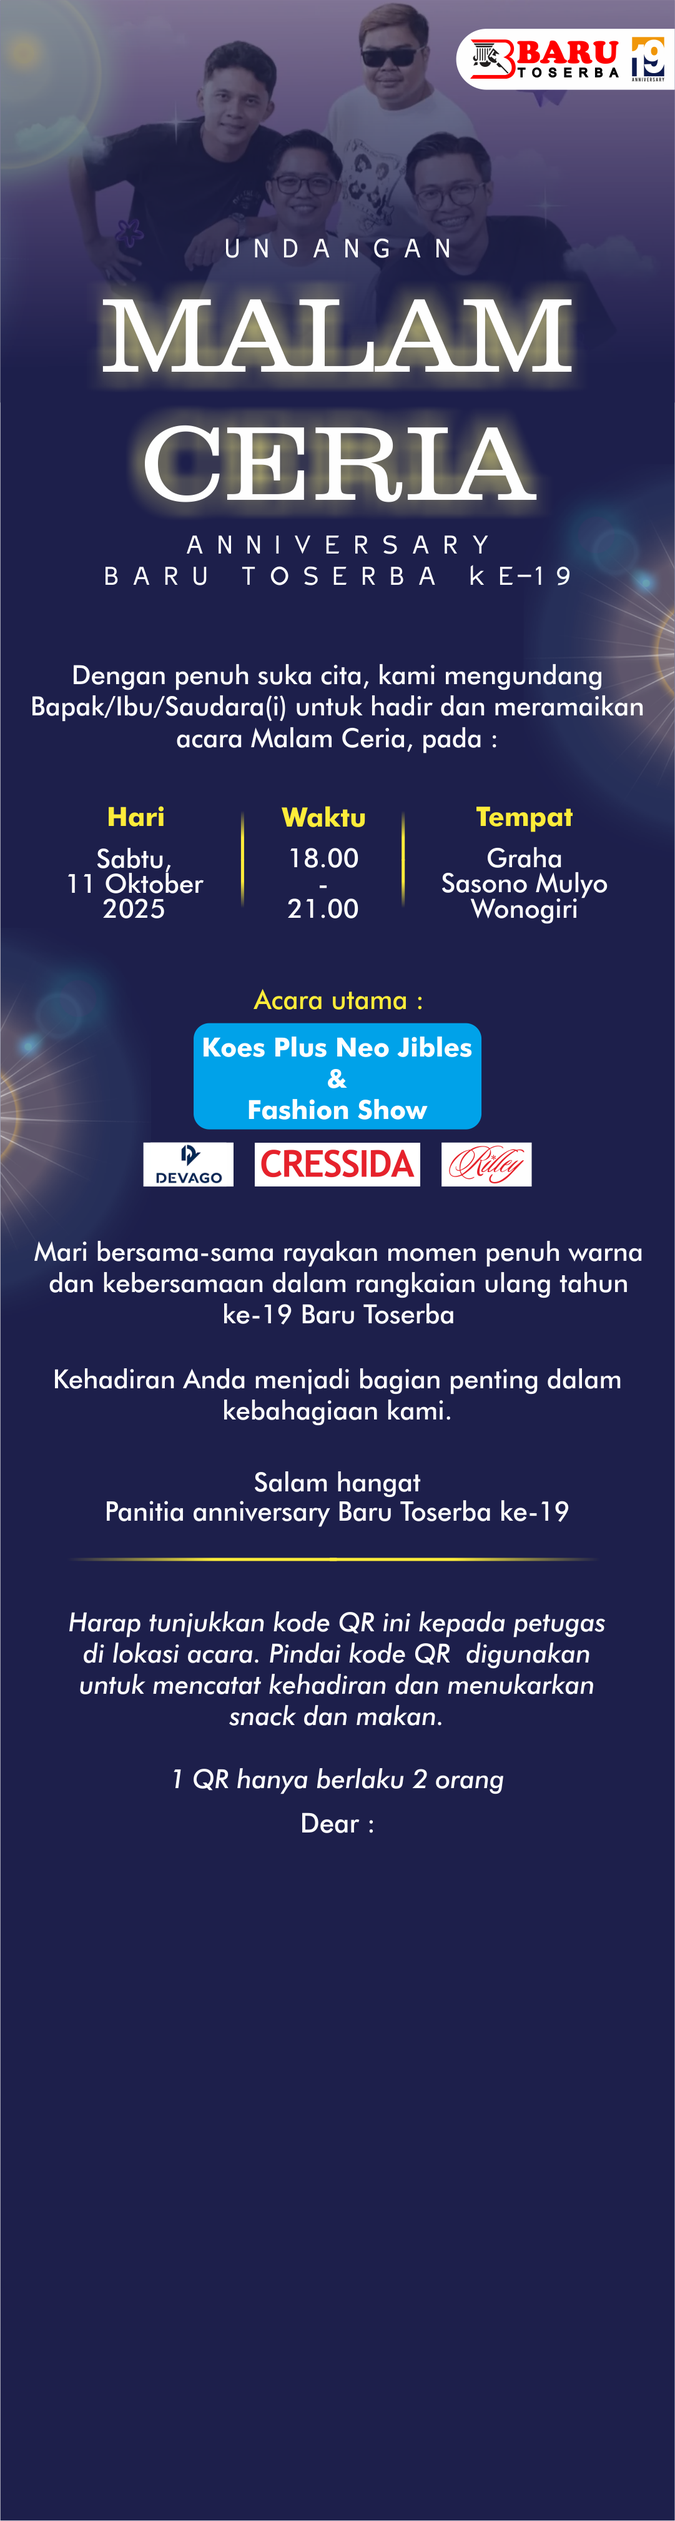
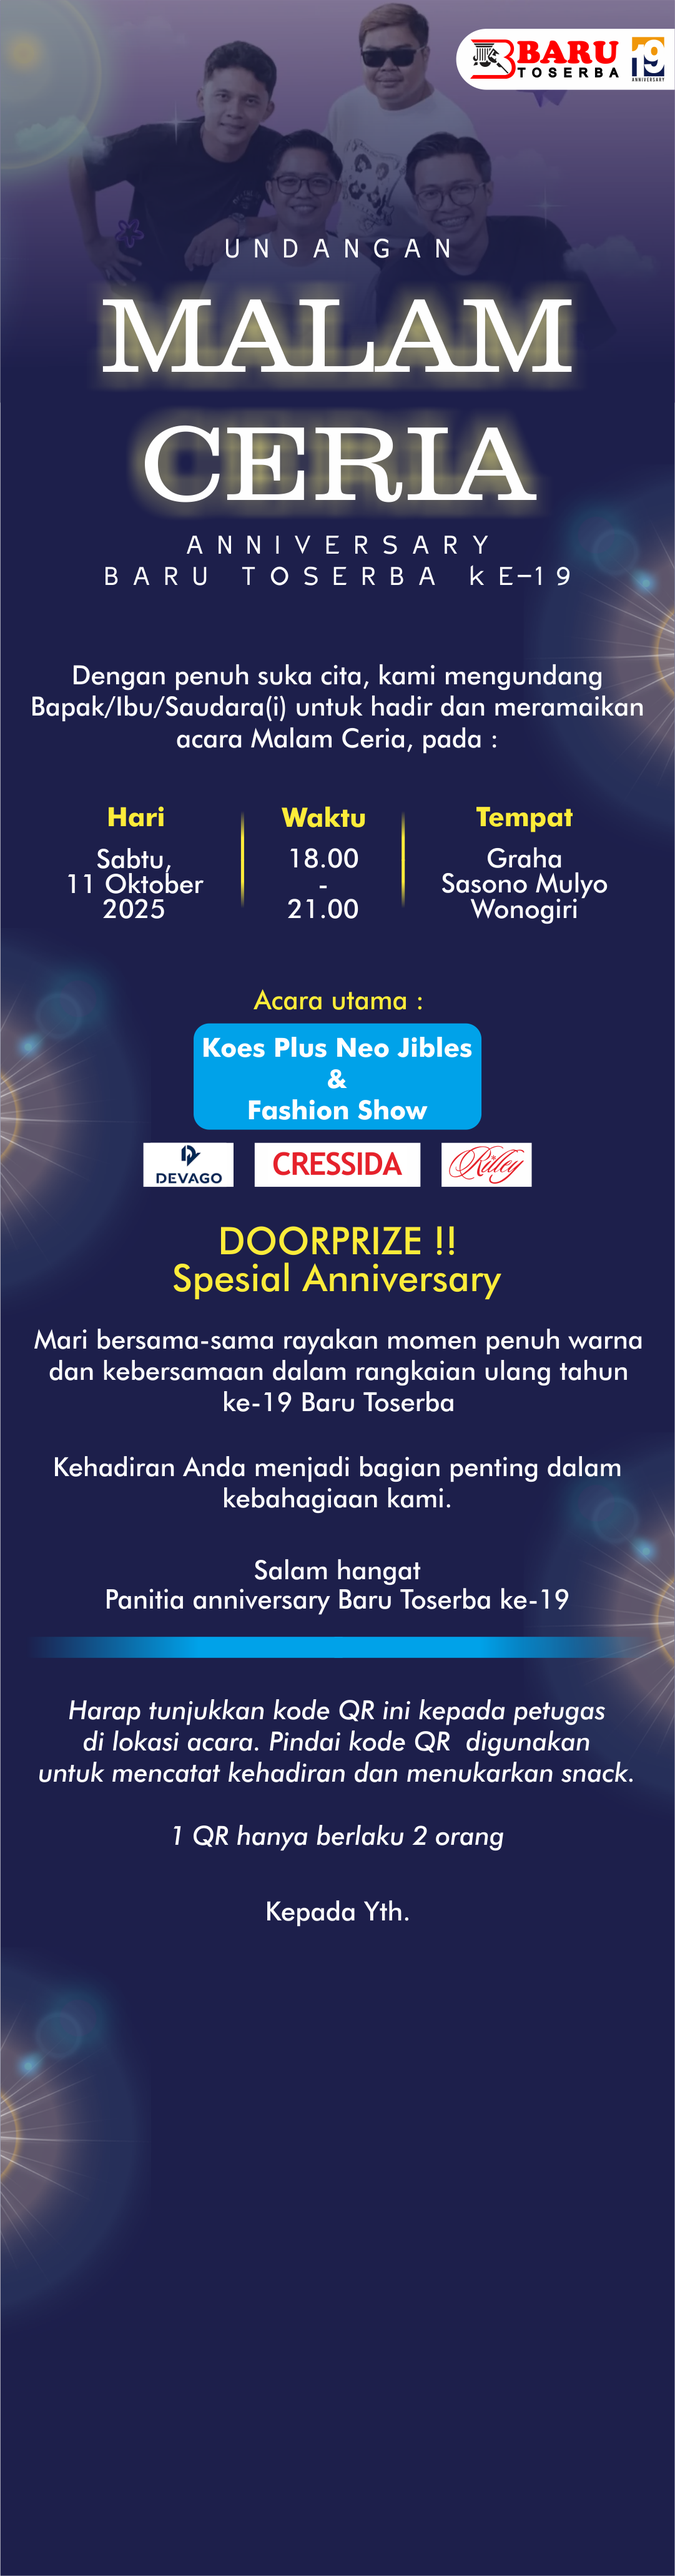
revisi 3

diff --git a/script.js b/script.js
@@ -1,44 +1,94 @@
-async function getData(id) {
-  // PUBLISH CSV, bukan pubhtml
-  const url = "https://docs.google.com/spreadsheets/d/e/2PACX-1vTFJg99ZcAEyEgy_mBaW1IItEUQoL1GCGCNvzk1t5bD-6CdP2Cvprc_7nDIPeVxXrbFWPtZO75agSsE/pub?gid=0&single=true&output=csv";
-
-  const response = await fetch(url);
-  const text = await response.text();
-  console.log("RAW CSV:", text);  // cek mentahan
-  const rows = text.split("\n").map(r => r.split(","));
-  console.log("ROWS:", rows);     // cek hasil pecahan
-
-  for (let i = 1; i < rows.length; i++) {
-    let row = rows[i];
-    console.log("ROW CEK:", row); // cek isi per baris
-    if (row[0] === id) {
-      return {
-        nomorID: row[0],
-        nama: row[1],
-        qr: row[7]  // kolom H = link QR
-      };
-    }
+function tampilkanTamu(data) {
+  if (data && data.nama) {
+    document.getElementById("namaCover").innerText = data.nama;
+    document.getElementById("nama").innerText = data.nama;
+    document.getElementById("nomorID").innerText = data.id;
+    document.getElementById("qr").src = data.qr;
+    console.log("DEBUG data.qr:", data.qr);
+    console.log("Isi data.qr:", data.qr);
+  } else {
+    document.getElementById("nama").innerText = "Tamu tidak dikenal";
   }
-  return null;
 }
 
-(async () => {
+(function () {
+  const params = new URLSearchParams(window.location.search);
+  const id = params.get("id");
+
+  if (!id) {
+    document.getElementById("nama").innerText = "ID tidak ditemukan";
+    return;
+  }
+
+  // Buat <script> JSONP
+  const script = document.createElement("script");
+  script.src = "https://script.google.com/macros/s/AKfycbxNDD9fRaS49GQck2ZiXdbo0_UrbqKW1rJJVyp9Vf-WWqltt_hBqLNDflQRlbjh4Vblww/exec?api=1&id="
+    + encodeURIComponent(id) + "&callback=tampilkanTamu";
+  document.body.appendChild(script);
+})();
+
+// Musik auto play sekali klik
+window.addEventListener(
+  "click",
+  function () {
+    const musik = document.getElementById("musik");
+    if (musik) {
+      musik.muted = false;
+      musik.play();
+    }
+  },
+  { once: true }
+);
+
+async function init() {
   const params = new URLSearchParams(window.location.search);
   const id = params.get("id");
 
   const tamu = await getData(id);
 
   if (tamu) {
+    // isi nama di cover + undangan
+    document.getElementById("namaCover").innerText = tamu.nama;
     document.getElementById("nama").innerText = tamu.nama;
-    document.getElementById("nomorID").innerText = tamu.nomorID;
     document.getElementById("qr").src = tamu.qr;
   } else {
+    document.getElementById("namaCover").innerText = "Tamu tidak dikenal";
     document.getElementById("nama").innerText = "Tamu tidak dikenal";
   }
-})();
+}
 
-  window.addEventListener("click", function() {
-    const musik = document.getElementById("musik");
-    musik.muted = false;   // matikan mute
-    musik.play();          // pastikan play
-  }, { once: true });
+// Saat awal load, kunci scroll
+window.onload = function () {
+  document.body.classList.add("no-scroll");
+};
+
+function bukaUndangan() {
+  const cover = document.getElementById("cover"); // ambil elemen cover
+
+  // tambahkan class animasi
+  cover.classList.add("slide-up");
+
+    // Mulai musik ketika tombol diklik
+  const musik = document.getElementById("musik");
+  musik.play().catch(err => {
+    console.log("User interaction diperlukan untuk mulai musik:", err);
+  });
+
+  // tunggu animasi selesai, baru sembunyikan cover & tampilkan undangan
+  cover.addEventListener("transitionend", function () {
+    cover.style.display = "none";                   // sembunyikan cover
+    document.querySelector(".undangan").style.display = "block"; // tampilkan undangan
+    document.querySelector(".map-container").style.display = "block"; // tampilkan map
+
+    // lepas lock scroll
+    document.body.classList.remove("no-scroll");
+    document.documentElement.classList.remove("no-scroll");
+  }, { once: true }); // pastikan event hanya sekali
+}
+
+// play musik
+const musik = document.getElementById("musik");
+musik.play().catch(() => {
+  musik.muted = false;
+  musik.play();
+});

diff --git a/style.css b/style.css
@@ -1,15 +1,67 @@
+/* Cover */
+html.no-scroll,
+body.no-scroll {
+  overflow: hidden; /* kunci scroll */
+  height: 100%;
+}
+
+#cover {
+  position: fixed;
+  top: 0; left: 0; right: 0; bottom: 0;
+  background: #9f9f9f;
+  color: white;
+  display: flex;
+  flex-direction: column;
+  justify-content: center;
+  align-items: center;
+  text-align: center;
+  z-index: 9999;
+  overflow: hidden;
+
+    /* transition untuk animasi */
+  transition: transform 0.7s ease, opacity 0.7s ease;
+}
+
+#cover.slide-up {
+  transform: translateY(-100vh); /* geser ke atas */
+  opacity: 0;                     /* biar memudar */
+}
+
+    #cover img {
+      max-width: 100%;
+      height: auto;
+    }
+    #cover h2 {
+      margin-bottom: 20px;
+      font-size: 22px;
+    }
+    #cover button {
+      background: #005eff;
+      color: white;
+      font-size: 18px;
+      padding: 12px 25px;
+      border: none;
+      border-radius: 30px;
+      cursor: pointer;
+    }
+    .namabuka {
+      position: absolute;
+      bottom: 25%;
+    }
+
 body {
   margin: 0;
   padding: 0;
   background: #f0f0f0;
-  display: flex;
-  justify-content: center;
+  min-height: 100vh;
+  flex-direction: column; /* susun vertikal */
+  align-items: center;
 }
 
 .undangan {
   position: relative;
-  width: 100%;      /* biar full layar HP */
-  max-width: 1080px;/* opsional, bisa dibuang kalau mau full terus */
+  width: 100%;
+  max-width: 600px;   /* biar pas di desktop */
 }
 
 .undangan .bg {
@@ -20,46 +72,40 @@ body {
 
 .info {
   position: absolute;
-  bottom: 130px; 
+  bottom: 90px;
   left: 50%;
   transform: translateX(-50%);
   text-align: center;
-  background: rgba(255,255,255,0.85); 
+  background: rgba(255, 255, 255, 0.85);
   padding: 10px 20px;
   border-radius: 20px;
   max-width: 90%;
 }
 
 .info h2 {
-  font-size: 18px; /* ukuran nama */
+  font-size: 18px;
   margin: 5px 0;
-}
-
-.info p {
-  font-size: 14px; /* ukuran ID */
-  margin: 2px 0;
+  font-weight: bold;
+  color: #000;
 }
 
 .info img {
-  max-width: 150px; /* kecilin QR biar pas */
+  max-width: 150px;
   height: auto;
-}
-
-
-.info h2 {
-  font-size: 3rem;   /* perbesar ukuran teks */
-  font-weight: bold; /* tebal */
-  color: #000;       /* warna teks */
 }
 
 @media (max-width: 600px) {
   .info h2 {
     font-size: 16px;
   }
-  .info p {
-    font-size: 12px;
-  }
   .info img {
     max-width: 120px;
   }
+}
+
+.map-container {
+  margin: 20px auto 0; /* jarak ke bawah undangan */
+  width: 90%;
+  max-width: 600px;
+  text-align: center;
 }

diff --git a/index.html b/index.html
@@ -9,11 +9,16 @@
 </head>
 
 <body>
-  <!-- <div class="undangan">
-    <div class="info">
-      <h2 id="nama">Nama Tamu</h2>
-      <img id="qr" src="" alt="QR Code">
-    </div> -->
+  <!-- Cover -->
+  <div id="cover">
+    <img src="cover.png" alt="Cover Undangan">
+    <div class="namabuka">
+      <p>Kepada Yth. <br> Bapak/Ibu/Sdr/i</p>
+      <h2 id="namaCover">Nama Tamu</h2>
+      <button onclick="bukaUndangan()">✉ Buka Undangan</button>
+    </div>
+  </div>
+
   <div class="undangan">
     <img src="Undangan.png" alt="Undangan" class="bg">
 
@@ -23,12 +28,25 @@
       <h2>No. ID</h2>
       <h2 id="nomorID">Nomor ID</h2>
     </div>
-  </div>
+
+    <!-- Musik -->
+    <audio id="musik" preload="auto">
+      <source src="Musik.MP3" type="audio/mpeg">
+    </audio>
+
   </div>
 
-<audio id="musik" autoplay muted loop playsinline>
-  <source src="Musik.MP3" type="audio/mpeg">
-</audio>
+  <!-- Map -->
+  <div class="map-container">
+    <h3>Lokasi Acara</h3>
+    <iframe
+      src="https://www.google.com/maps/embed?pb=!1m18!1m12!1m3!1d988.2444033246771!2d110.90591988594176!3d-7.792194665826143!2m3!1f0!2f0!3f0!3m2!1i1024!2i768!4f13.1!3m3!1m2!1s0x2e7a2fbbfa5b9b13%3A0xb498ece7fa04066d!2sGraha%20Sasono%20Mulyo!5e0!3m2!1sen!2sid!4v1759217865012!5m2!1sen!2sid"
+      width="100%" height="300" style="border:0; border-radius:12px;" allowfullscreen loading="lazy"
+      referrerpolicy="no-referrer-when-downgrade">
+    </iframe>
+  </div>
+
+
 
   <script src="script.js"></script>
 </body>
